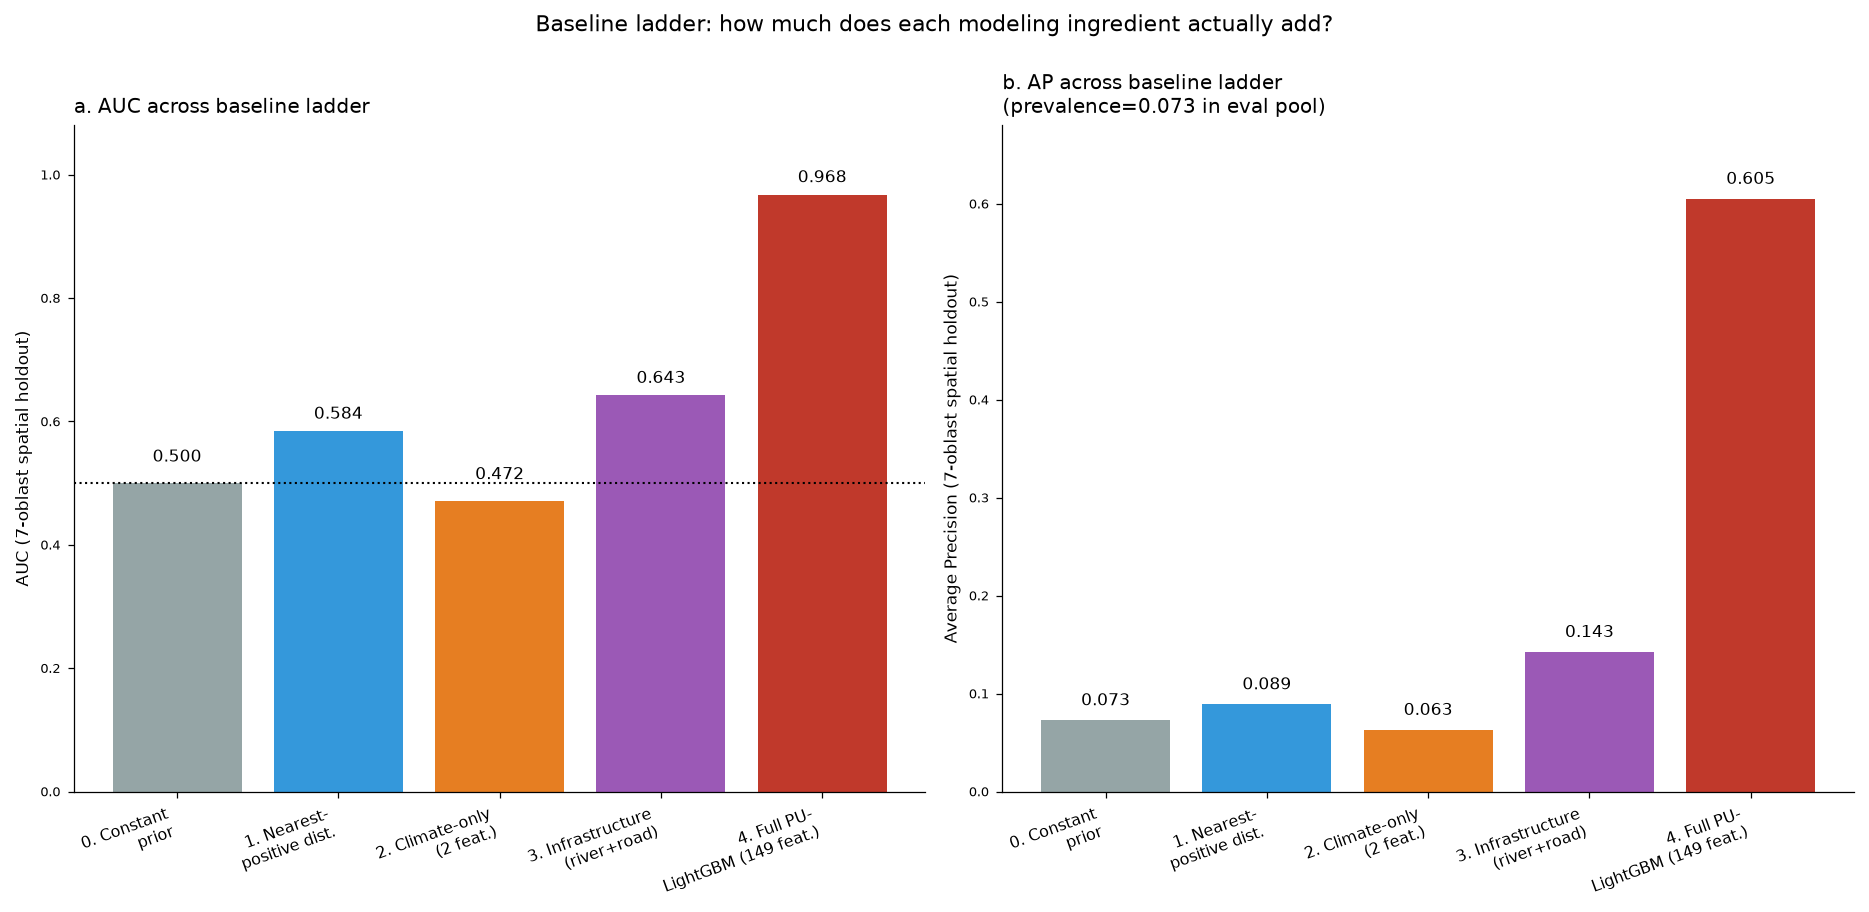
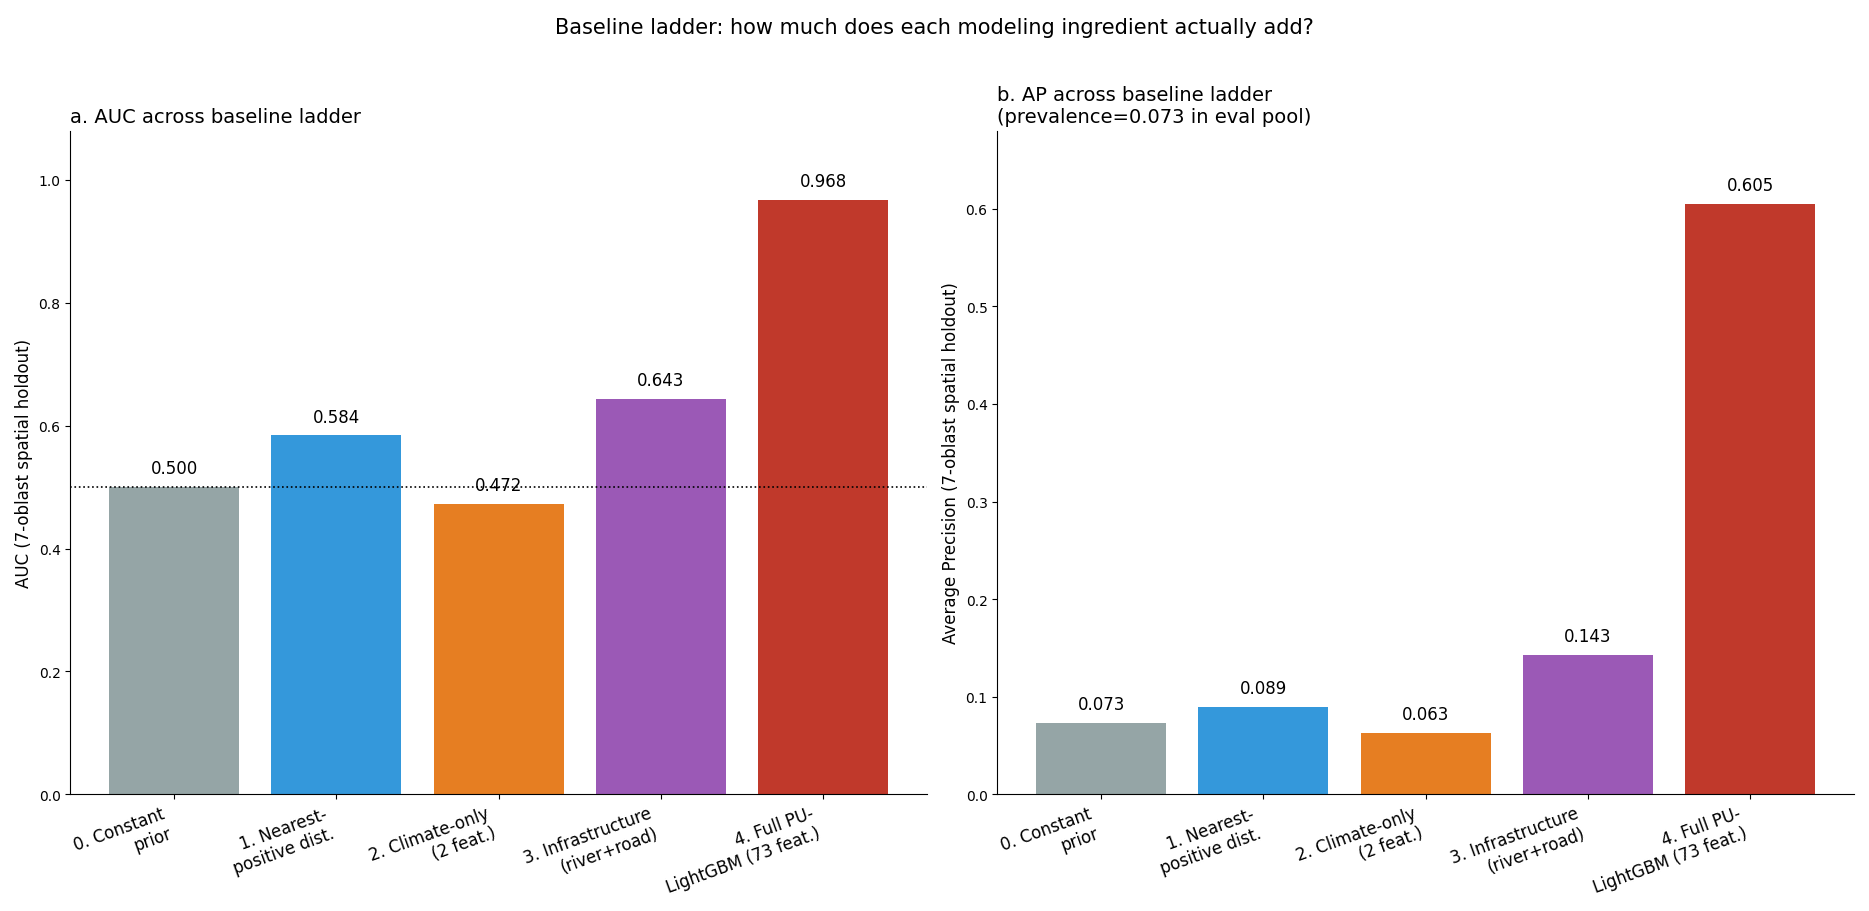
Fix full-model feature count in baseline ladder (149 -> 73) (#1)
* Fix full-model feature count in baseline ladder (149 -> 73)

The full PU-LightGBM model uses 73 features (suitability_manifest.json,
n_features_used). 149 is the size of the feature table before the
label-leak and identifier columns were excluded. The AUC/AP shown for
the full model (0.968 / 0.605) already belong to the 73-feature model;
only the label was stale.

- pipeline/03_models/06_baseline_ladder.py: model label
- figures/fig_ladder.png: x-axis label redrawn as "73 feat."

* Keep original CRLF line endings in 06_baseline_ladder.py

---------

diff --git a/pipeline/03_models/06_baseline_ladder.py b/pipeline/03_models/06_baseline_ladder.py
@@ -92,6 +92,6 @@ baseline_results = pd.DataFrame([
     {"model": "1. Nearest-positive\ndistance only", "AUC": auc_nn, "AP": ap_nn},
     {"model": "2. Climate-only\n(2 features)", "AUC": auc_clim, "AP": ap_clim},
     {"model": "3. Infrastructure\n(river+road dist)", "AUC": auc_infra, "AP": ap_infra},
-    {"model": "4. Full PU-LightGBM\n(149 features)", "AUC": 0.9679, "AP": 0.6053},
+    {"model": "4. Full PU-LightGBM\n(73 features)", "AUC": 0.9679, "AP": 0.6053},
 ])
 baseline_results.to_csv("baseline_ladder.csv", index=False)
